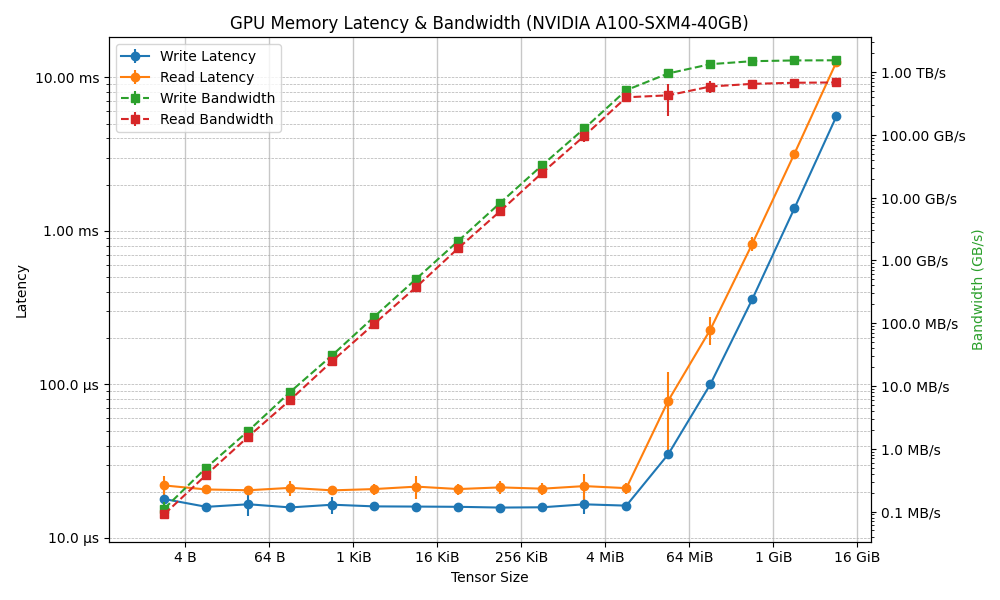
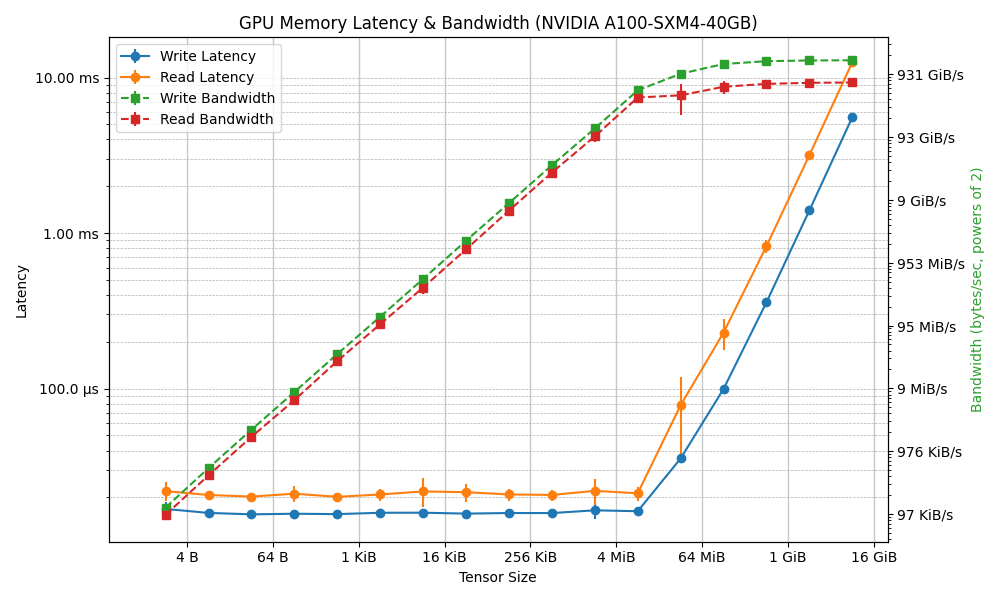
wip memory bandwidth 2

diff --git a/test-memory-latency.py b/test-memory-latency.py
@@ -122,16 +122,16 @@ def plot_latency_results(results, output_file=None, gpu_name=None):
     ax1.set_yscale('log')
 
     # Format x-ticks as human-readable bytes
-    def format_bytes(x, pos=None):
+    def format_bytes(x, pos=None, suffix=""):
         if x < 1024:
-            return f"{int(x)} B"
+            return f"{int(x)} B{suffix}"
         elif x < 1024**2:
-            return f"{int(x/1024)} KiB"
+            return f"{int(x/1024)} KiB{suffix}"
         elif x < 1024**3:
-            return f"{int(x/1024**2)} MiB"
+            return f"{int(x/1024**2)} MiB{suffix}"
         else:
-            return f"{int(x/1024**3)} GiB"
-    ax1.xaxis.set_major_formatter(ticker.FuncFormatter(format_bytes))
+            return f"{int(x/1024**3)} GiB{suffix}"
+    ax1.xaxis.set_major_formatter(ticker.FuncFormatter(lambda x, pos: format_bytes(x, pos)))
     ax1.xaxis.set_major_locator(ticker.LogLocator(base=2))
     ax1.xaxis.set_minor_locator(ticker.LogLocator(base=2, subs='auto', numticks=100))
     ax1.xaxis.set_minor_formatter(ticker.NullFormatter())
@@ -160,21 +160,13 @@ def plot_latency_results(results, output_file=None, gpu_name=None):
     ax2 = ax1.twinx()
     l3 = l4 = None
     if len(write_bw_means) > 0:
-        l3 = ax2.errorbar(sizes, write_bw_means, yerr=write_bw_stds, label='Write Bandwidth', fmt='--s', color='tab:green')
+        l3 = ax2.errorbar(sizes, write_bw_means * 1024**3, yerr=write_bw_stds * 1024**3, label='Write Bandwidth', fmt='--s', color='tab:green')
     if len(read_bw_means) > 0:
-        l4 = ax2.errorbar(sizes, read_bw_means, yerr=read_bw_stds, label='Read Bandwidth', fmt='--s', color='tab:red')
+        l4 = ax2.errorbar(sizes, read_bw_means * 1024**3, yerr=read_bw_stds * 1024**3, label='Read Bandwidth', fmt='--s', color='tab:red')
     ax2.set_yscale('log')
-    def format_bw(y, pos=None):
-        if y == 0:
-            return "0"
-        elif y < 1:
-            return f"{y*1e3:.1f} MB/s"
-        elif y < 1e3:
-            return f"{y:.2f} GB/s"
-        else:
-            return f"{y/1e3:.2f} TB/s"
-    ax2.yaxis.set_major_formatter(ticker.FuncFormatter(format_bw))
-    ax2.set_ylabel('Bandwidth (GB/s)')
+    # Bandwidth is now in bytes/sec, so use the same formatter as bytes, with '/s' suffix
+    ax2.yaxis.set_major_formatter(ticker.FuncFormatter(lambda y, pos: format_bytes(y, pos, suffix='/s')))
+    ax2.set_ylabel('Bandwidth (bytes/sec, powers of 2)')
     ax2.yaxis.label.set_color('tab:green')
 
     # Combine legends from both axes
